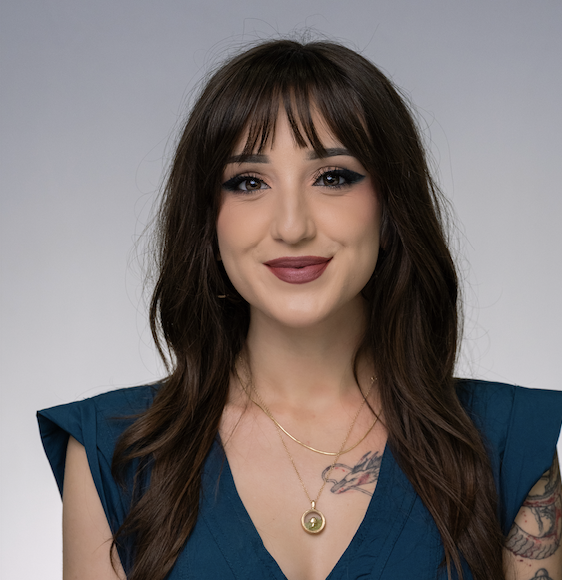
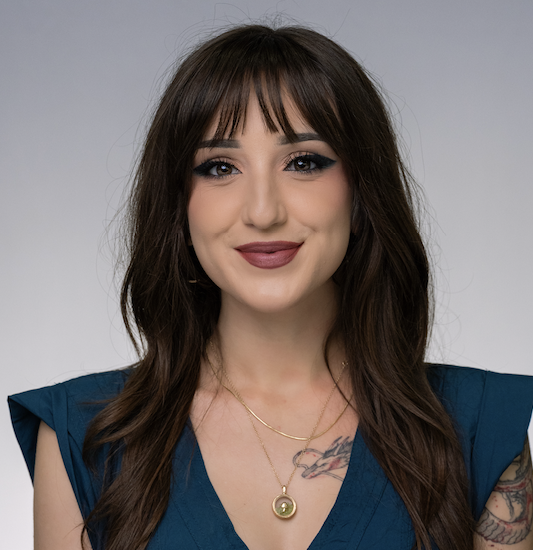
trying to update github

Changed region(s): [[0.0, 0.0309, 1.0, 1.0], [0.6904, 0.5255, 0.7505, 0.5873], [0.6304, 0.9891, 0.6604, 1.0]]

diff --git a/docs/about.html b/docs/about.html
@@ -2,13 +2,16 @@
 <html xmlns="http://www.w3.org/1999/xhtml" lang="en" xml:lang="en"><head>
 
 <meta charset="utf-8">
-<meta name="generator" content="quarto-1.8.25">
+<meta name="generator" content="quarto-1.9.36">
 
 <meta name="viewport" content="width=device-width, initial-scale=1.0, user-scalable=yes">
 
 
 <title>About – Zane Sano Portfolio</title>
 <style>
+/* Default styles provided by pandoc.
+** See https://pandoc.org/MANUAL.html#variables-for-html for config info.
+*/
 code{white-space: pre-wrap;}
 span.smallcaps{font-variant: small-caps;}
 div.columns{display: flex; gap: min(4vw, 1.5em);}
@@ -32,15 +35,14 @@ ul.task-list li input[type="checkbox"] {
 <meta name="quarto:offset" content="./">
 <script src="site_libs/quarto-html/quarto.js" type="module"></script>
 <script src="site_libs/quarto-html/tabsets/tabsets.js" type="module"></script>
-<script src="site_libs/quarto-html/axe/axe-check.js" type="module"></script>
 <script src="site_libs/quarto-html/popper.min.js"></script>
 <script src="site_libs/quarto-html/tippy.umd.min.js"></script>
 <script src="site_libs/quarto-html/anchor.min.js"></script>
 <link href="site_libs/quarto-html/tippy.css" rel="stylesheet">
-<link href="site_libs/quarto-html/quarto-syntax-highlighting-7b89279ff1a6dce999919e0e67d4d9ec.css" rel="stylesheet" id="quarto-text-highlighting-styles">
+<link href="site_libs/quarto-html/quarto-syntax-highlighting-dark-f418161beb48e0141c760e455f12af2c.css" rel="stylesheet" id="quarto-text-highlighting-styles">
 <script src="site_libs/bootstrap/bootstrap.min.js"></script>
 <link href="site_libs/bootstrap/bootstrap-icons.css" rel="stylesheet">
-<link href="site_libs/bootstrap/bootstrap-1e2d4cd4c0c187b7887ec59d340d0036.min.css" rel="stylesheet" append-hash="true" id="quarto-bootstrap" data-mode="light">
+<link href="site_libs/bootstrap/bootstrap-35ab6cc75aca2ca9d5b4cc637c52d7ec.min.css" rel="stylesheet" append-hash="true" id="quarto-bootstrap" data-mode="dark">
 <script id="quarto-search-options" type="application/json">{
   "location": "navbar",
   "copy-button": false,
@@ -80,8 +82,6 @@ ul.task-list li input[type="checkbox"] {
     <nav class="navbar navbar-expand-lg " data-bs-theme="dark">
       <div class="navbar-container container-fluid">
       <div class="navbar-brand-container mx-auto">
-    <a href="./index.html" class="navbar-brand navbar-brand-logo">
-    </a>
     <a class="navbar-brand" href="./index.html">
     <span class="navbar-title">Zane Sano Portfolio</span>
     </a>
@@ -99,6 +99,10 @@ ul.task-list li input[type="checkbox"] {
   <li class="nav-item">
     <a class="nav-link active" href="./about.html" aria-current="page"> 
 <span class="menu-text">About Me</span></a>
+  </li>  
+  <li class="nav-item">
+    <a class="nav-link" href="./portfolio-project/project-portfolio.html"> 
+<span class="menu-text">Portfolio Project</span></a>
   </li>  
 </ul>
           </div> <!-- /navcollapse -->

diff --git a/docs/index.html b/docs/index.html
@@ -38,10 +38,10 @@ ul.task-list li input[type="checkbox"] {
 <script src="site_libs/quarto-html/popper.min.js"></script>
 <script src="site_libs/quarto-html/tippy.umd.min.js"></script>
 <link href="site_libs/quarto-html/tippy.css" rel="stylesheet">
-<link href="site_libs/quarto-html/quarto-syntax-highlighting-845c23b38eaddc0f92fda52bfe77a8c8.css" rel="stylesheet" id="quarto-text-highlighting-styles">
+<link href="site_libs/quarto-html/quarto-syntax-highlighting-dark-f418161beb48e0141c760e455f12af2c.css" rel="stylesheet" id="quarto-text-highlighting-styles">
 <script src="site_libs/bootstrap/bootstrap.min.js"></script>
 <link href="site_libs/bootstrap/bootstrap-icons.css" rel="stylesheet">
-<link href="site_libs/bootstrap/bootstrap-a58290d47af4766aca099a6c76ba7184.min.css" rel="stylesheet" append-hash="true" id="quarto-bootstrap" data-mode="light">
+<link href="site_libs/bootstrap/bootstrap-35ab6cc75aca2ca9d5b4cc637c52d7ec.min.css" rel="stylesheet" append-hash="true" id="quarto-bootstrap" data-mode="dark">
 <script id="quarto-search-options" type="application/json">{
   "location": "navbar",
   "copy-button": false,
@@ -98,6 +98,10 @@ ul.task-list li input[type="checkbox"] {
   <li class="nav-item">
     <a class="nav-link" href="./about.html"> 
 <span class="menu-text">About Me</span></a>
+  </li>  
+  <li class="nav-item">
+    <a class="nav-link" href="./portfolio-project/project-portfolio.html"> 
+<span class="menu-text">Portfolio Project</span></a>
   </li>  
 </ul>
           </div> <!-- /navcollapse -->